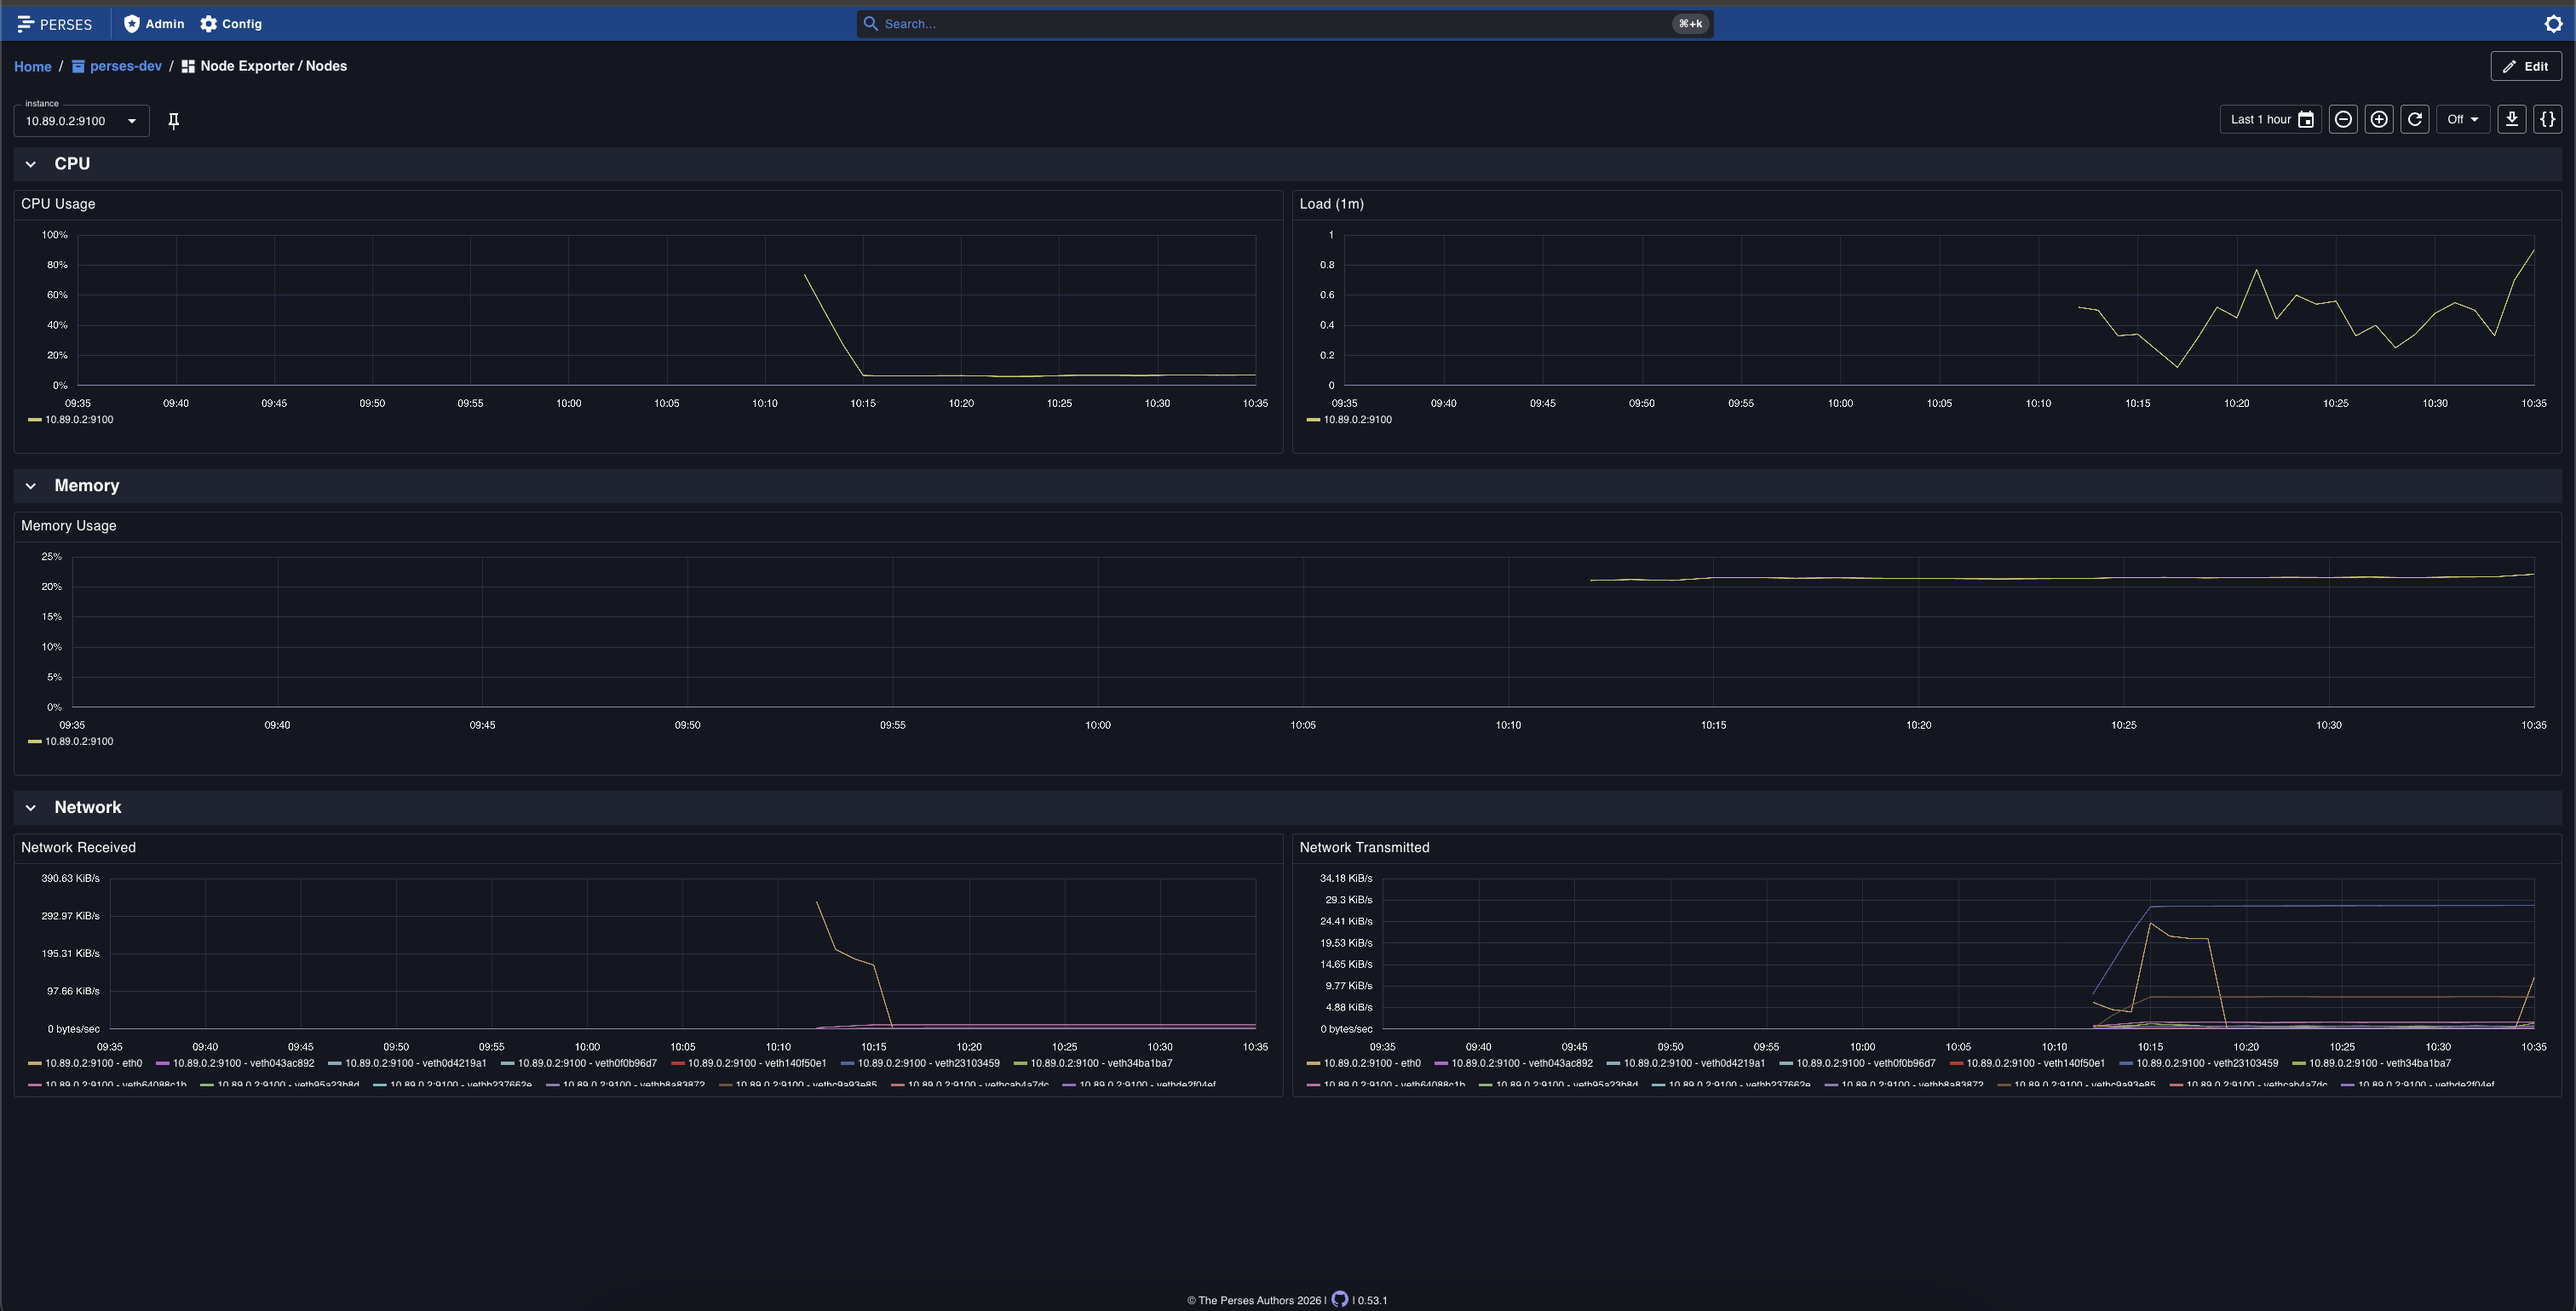
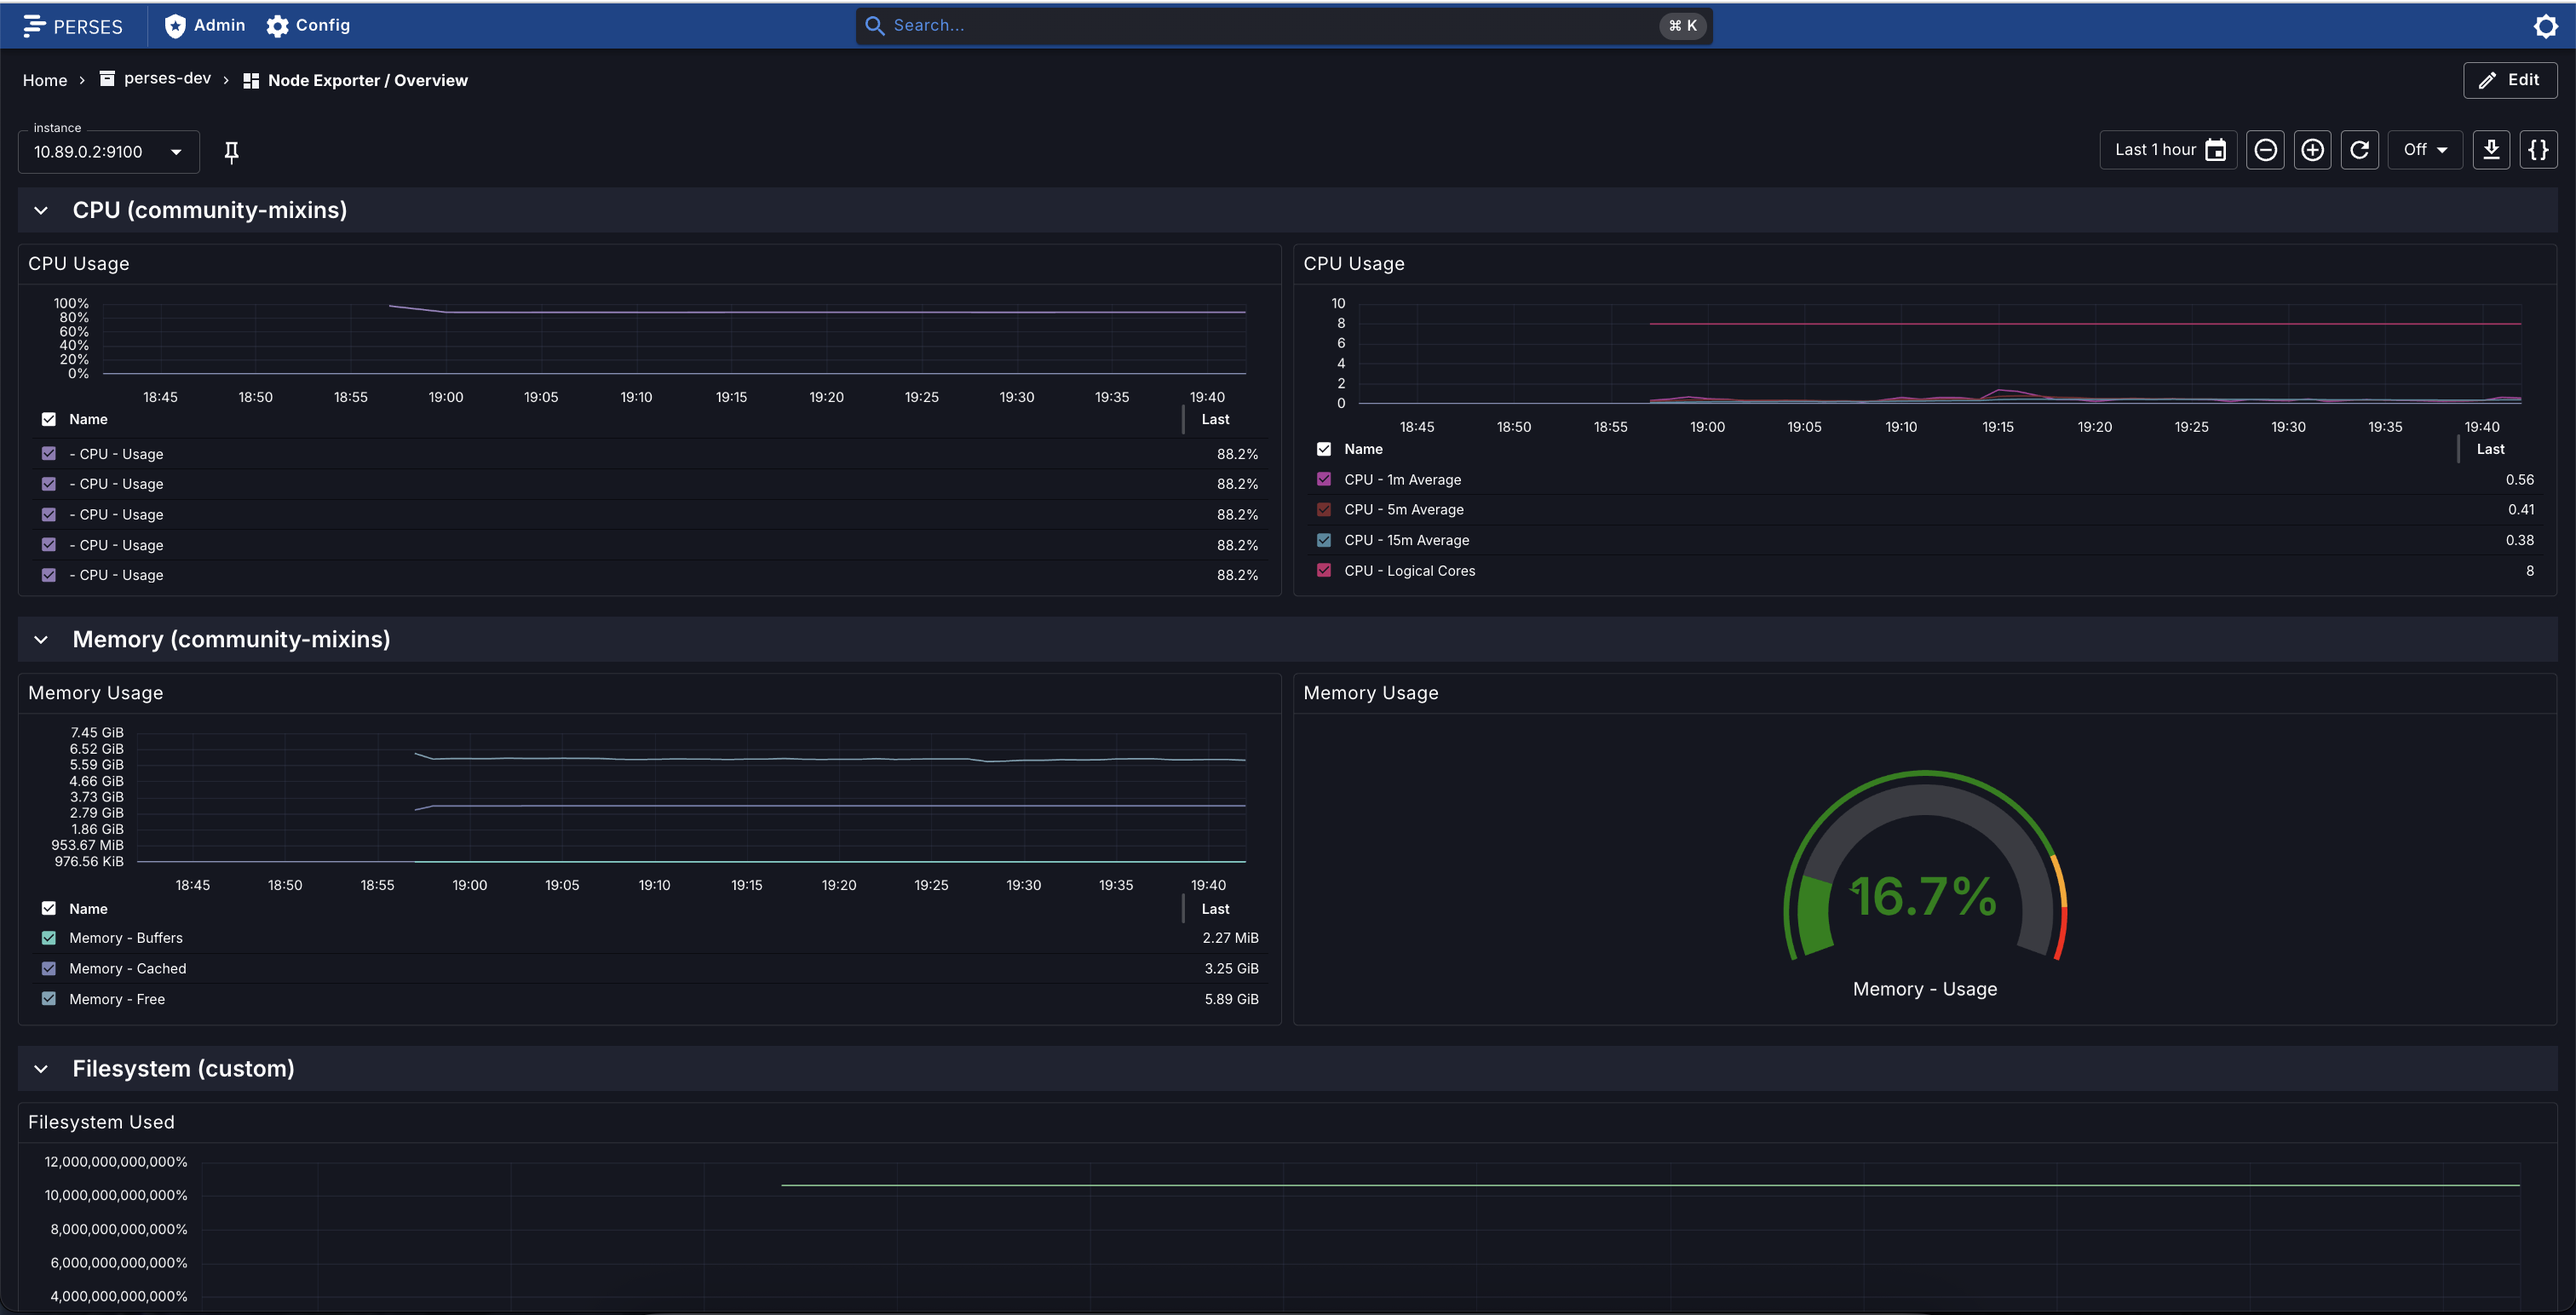
docs: refresh Overview screenshot and README.
Point docs at Node Exporter / Overview and drop the obsolete
standalone Filesystem demo image.

diff --git a/README.md b/README.md
@@ -53,11 +53,9 @@ The Argo CD setup here is for **demo purposes**, for production, follow the [Arg
 
 ![Argo CD synced new dashboard resource](docs/img/synced-new-dashboard.png)
 
-**Node Exporter / Nodes** (CPU, load, memory, network) and **Filesystem** (used disk space ratio):
+**Node Exporter / Overview** — community-mixins CPU/Memory (kube-prometheus `job="node-exporter"` matchers) + custom Filesystem panel:
 
-![Node Exporter / Nodes dashboard in Perses](docs/img/perses-node-exporter-dashboard-demo.png)
-
-![Node Exporter / Filesystem dashboard in Perses](docs/img/perses-node-exporter-fs-dashboard-demo.png)
+![Node Exporter / Overview dashboard in Perses](docs/img/perses-node-exporter-dashboard-demo.png)
 
 ## CI
 
